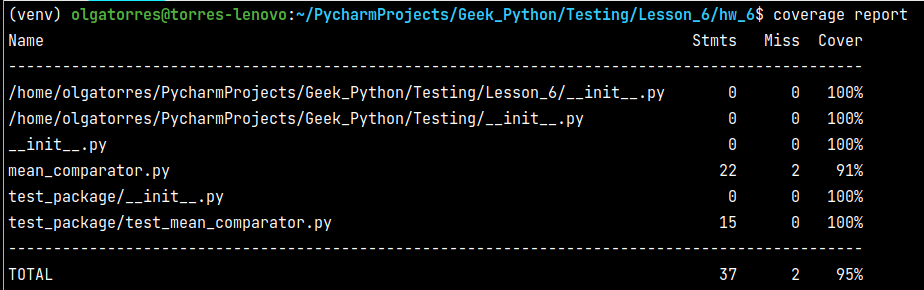
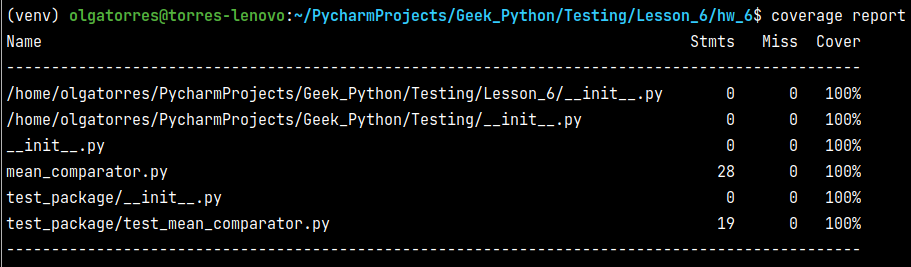
add hw6

diff --git a/Testing/Lesson_6/hw_6/test_package/test_mean_comparator.py b/Testing/Lesson_6/hw_6/test_package/test_mean_comparator.py
@@ -15,8 +15,17 @@ def test_get_mean_with_exception_empty_list():
     assert str(e.value) == "Список не должен быть пустым"
 
 
-def test_compare_mean():
-    first_list = [1, -1, 0]
-    second_list = [2, 2, 22]
+def test_get_mean_with_exception_type_error():
+    any_list = [1 , '1']
+    with pytest.raises(TypeError) as e:
+        MeanComparator.get_mean(any_list)
+    assert str(e.value) == 'Список должен состоять из цифр'
+
+
+@pytest.mark.parametrize('first_list, second_list, expected',
+                         [([1, -1, 0], [2, 2, 22], 'Второй список имеет большее среднее значение'),
+                          ([1, 1111, 0], [2, 2, 22], 'Первый список имеет большее среднее значение'),
+                          ([1, 3], [2, 2, 2], 'Средние значения равны')])
+def test_compare_mean(first_list, second_list, expected):
     mean_comparator = MeanComparator(first_list, second_list)
-    assert mean_comparator.compare_mean() == 'Второй список имеет большее среднее значение'
+    assert mean_comparator.compare_mean() == expected

diff --git a/Testing/Lesson_6/hw_6/mean_comparator.py b/Testing/Lesson_6/hw_6/mean_comparator.py
@@ -19,6 +19,8 @@ class MeanComparator:
             raise ValueError('Список не должен быть пустым')
         summ: float = 0.0
         for i in any_list:
+            if type(i) != int and type(i) != float:
+                raise TypeError('Список должен состоять из цифр')
             summ += i
         mean = summ / len(any_list)
         return mean

diff --git a/Testing/Lesson_6/hw_6/READme.md b/Testing/Lesson_6/hw_6/READme.md
@@ -19,3 +19,9 @@ b. Сравнивает эти средние значения и выводит
 - Отчет pylint/Checkstyle
 - Отчет о покрытии тестами
 - Объяснение того, какие сценарии покрыты тестами и почему вы выбрали именно эти сценарии.
+
+
+В первую очередь проверка вычисления среднего значения и проверка возможных исключений:
+пустой лист и если в списке не только цифры.
+Потом проверка функции сравнения на соответствие возвращаемому значению.
+
